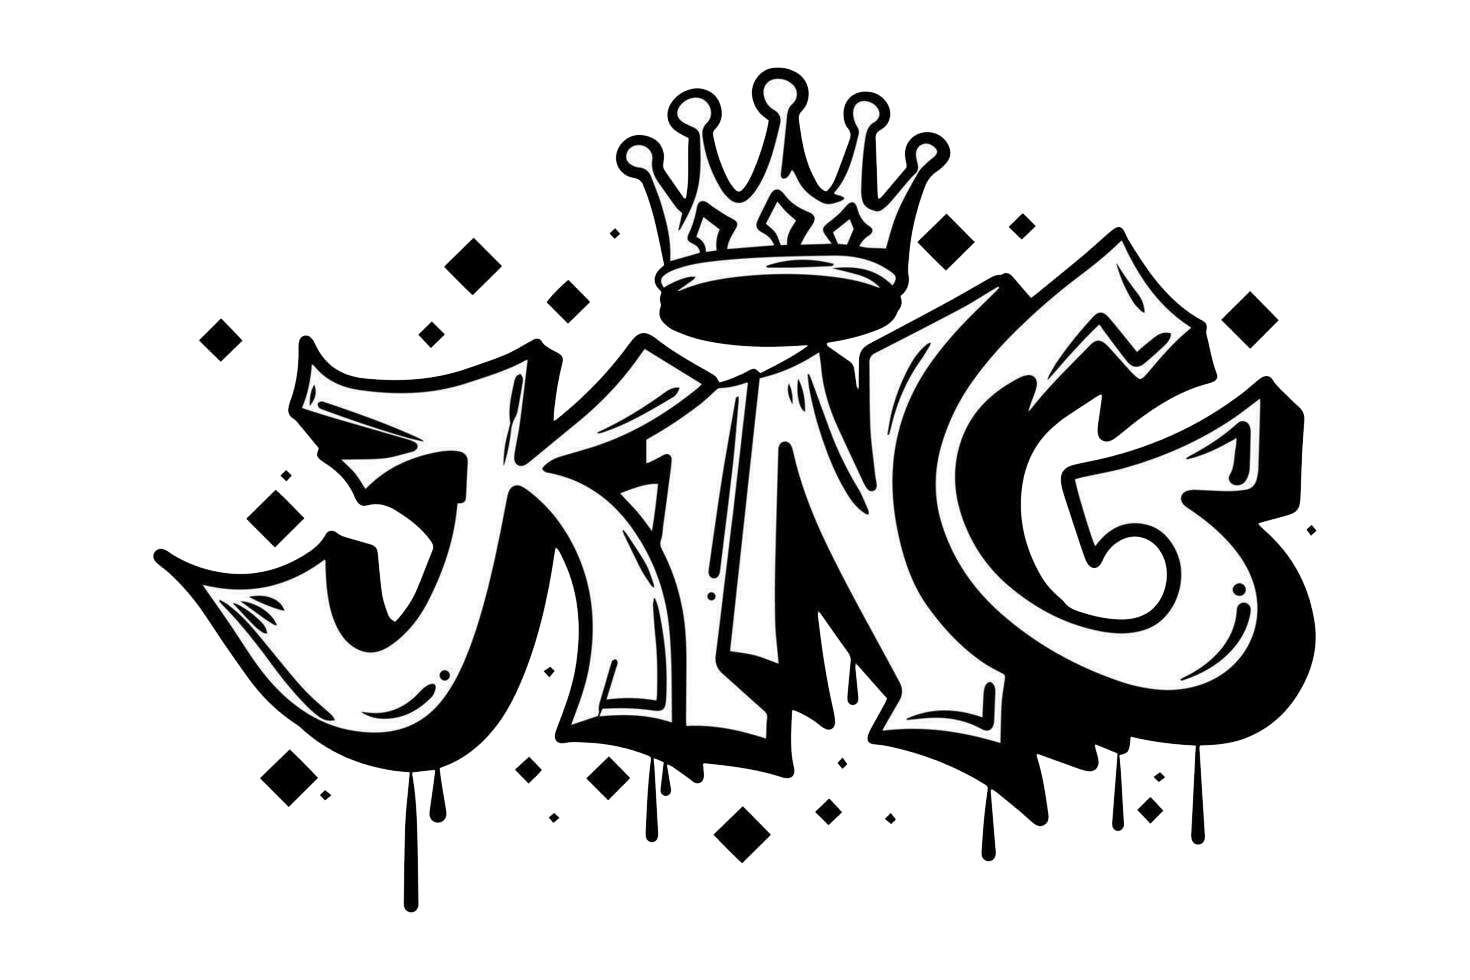
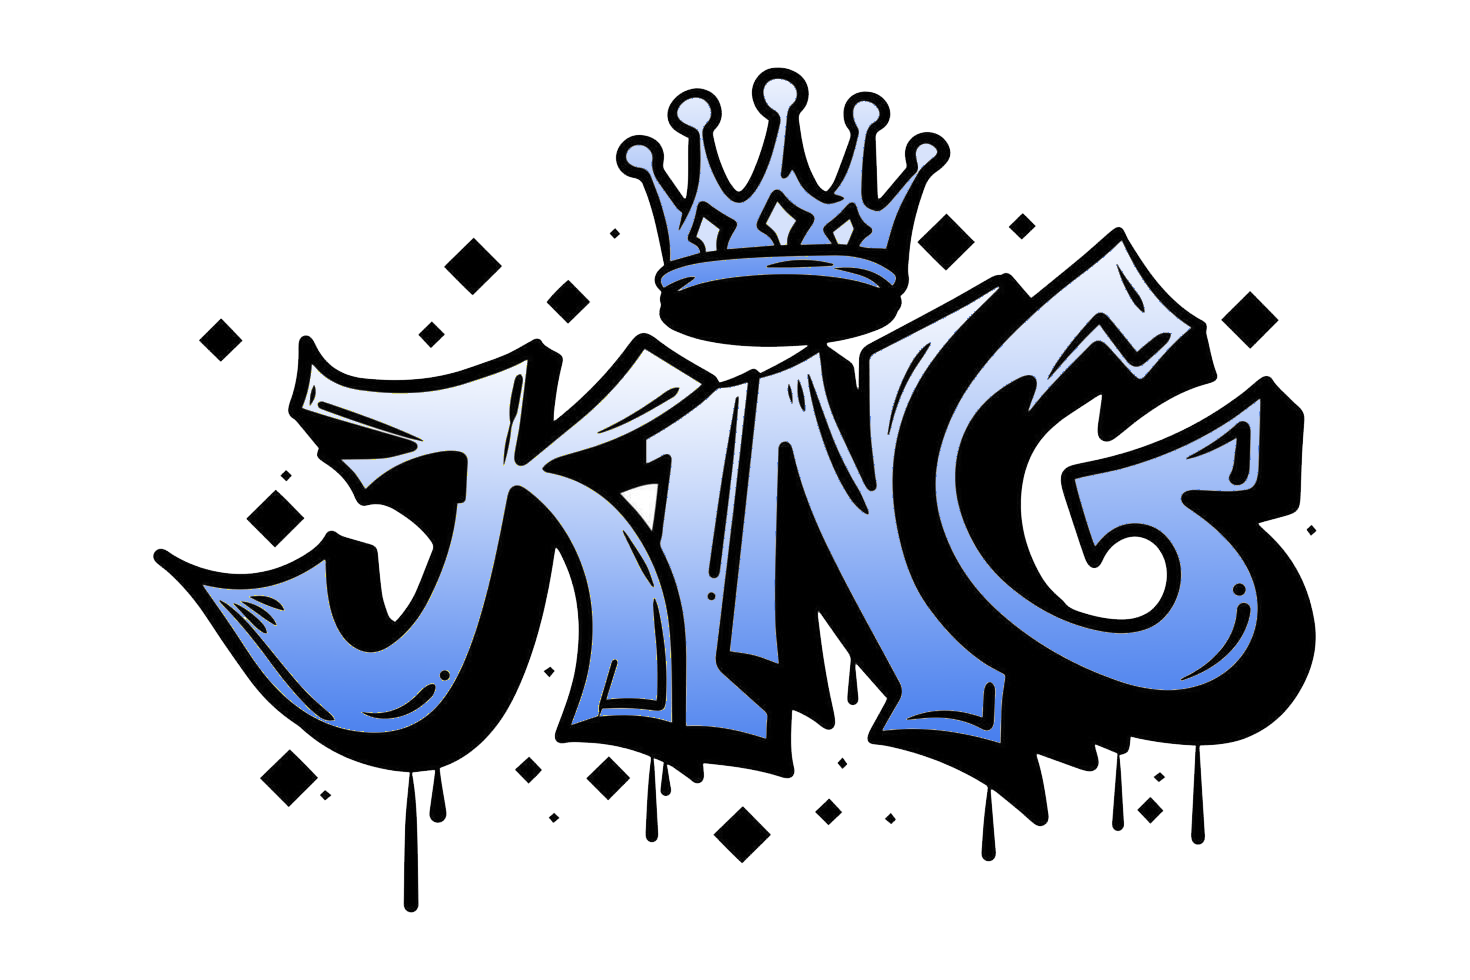
mdo alogo

Changed region(s): [[0.1224, 0.2755, 0.8571, 0.7653], [0.4286, 0.0918, 0.6429, 0.3061]]

diff --git a/src/public/css/style.css b/src/public/css/style.css
@@ -60,7 +60,7 @@ nav.scrolled {
 }
 
 .logo span {
-    color: #003366;
+    color: #296cb8;
 }
 
 /* ===== BARRA DE BUSCA ===== */

diff --git a/src/resources/views/Contato.blade.php b/src/resources/views/Contato.blade.php
@@ -73,7 +73,6 @@
                 <br />
 
                 <button class="btn" type="submit" value="Salvar">Enviar</button>
-                <p><a href="{{ url("/") }}">Voltar</a></p>
             </form>
         </div>
     </body>
